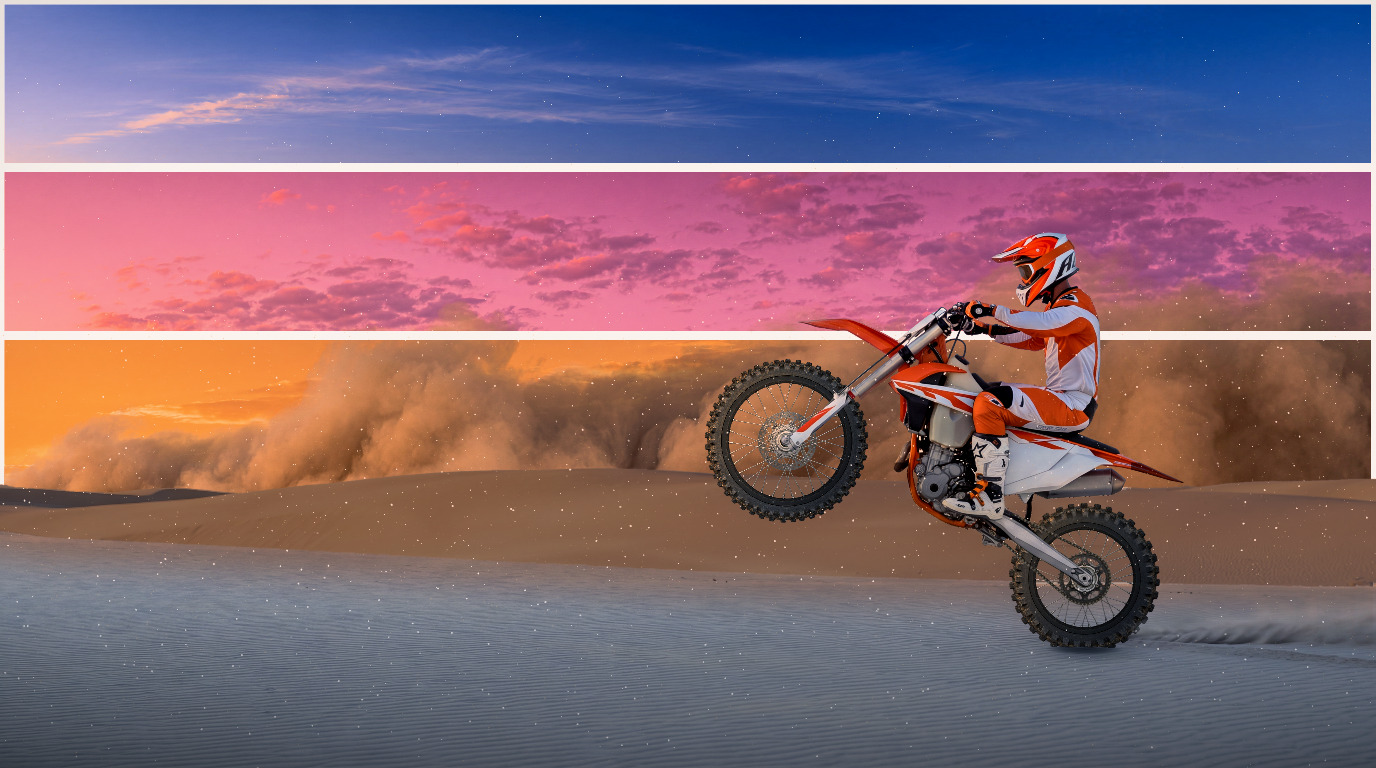
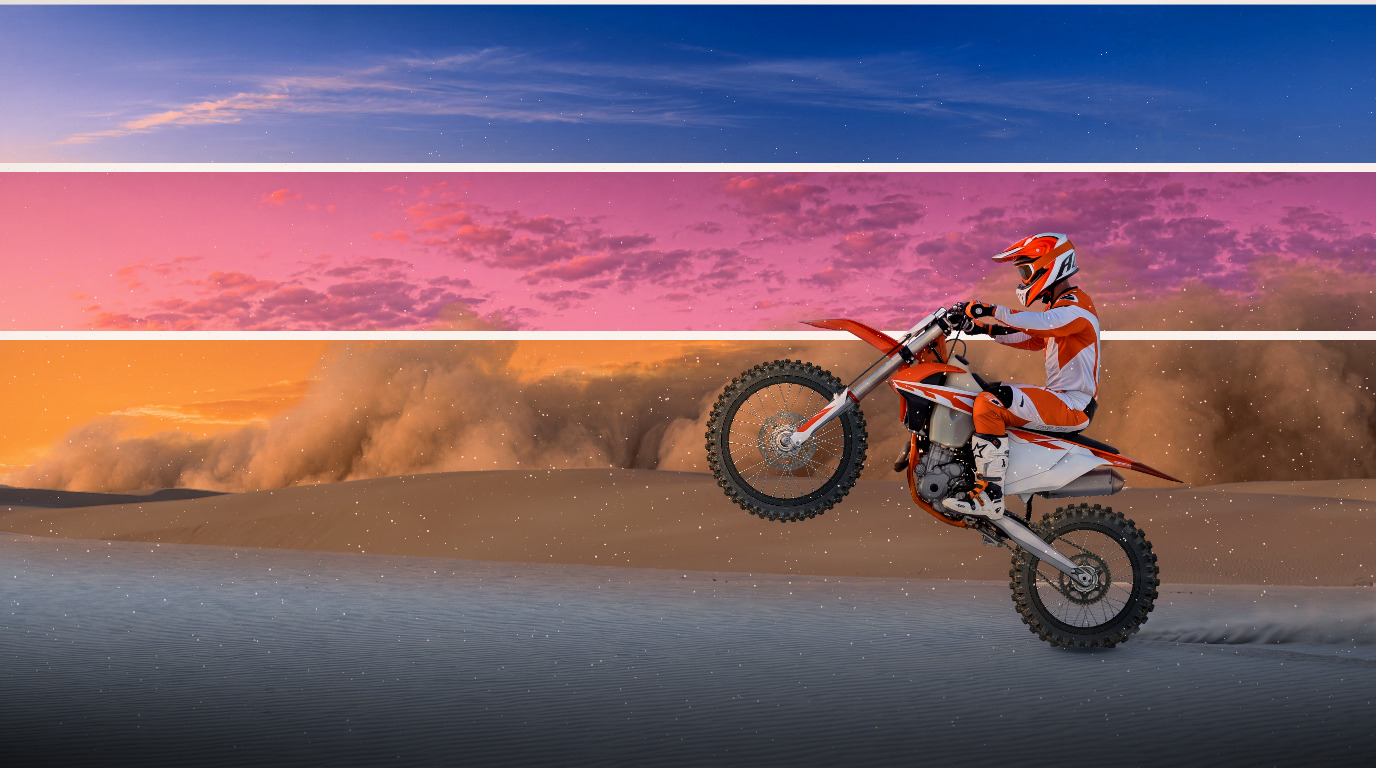
Run the Wheelie sky prints off the screen's sides
Each print was framed on all four sides. A 16:9 screen crops the 18 px
side borders away, but they showed on wider screens, in the poster, and
in the theme preview. The prints now fill the full width, and
Surface.qml draws one white band across each print edge instead of a
frame around each print; the bands keep their rows. The re-rendered
preview also shows the new vignette.

diff --git a/themes/wheelie/scene/Surface.qml b/themes/wheelie/scene/Surface.qml
@@ -37,18 +37,17 @@ Item {
 
     Image { source: "base.png"; smooth: true }
     HorizonStorm { anchors.fill: parent; horizon: root.layout.horizon || 0; running: root.particlesRunning }
-    // The sky prints' white frames, over the storm; the last print's lower edge lies past the horizon.
+    // A white band across each sky print edge, over the storm; the last edge lies past the horizon.
     Item {
       width: parent.width; height: root.layout.horizon || 0
       clip: true
       Repeater {
-        model: root.layout.prints ? root.layout.prints.length - 1 : 0
+        model: root.layout.prints || []
         Rectangle {
-          required property int index
-          y: root.layout.prints[index]
-          width: parent.width; height: root.layout.prints[index + 1] - y
-          color: "transparent"
-          border.color: "white"; border.width: root.layout.printBorder
+          required property int modelData
+          y: modelData - root.layout.printBorder
+          width: parent.width; height: 2 * root.layout.printBorder
+          color: "white"
         }
       }
     }

diff --git a/themes/wheelie/sky.py b/themes/wheelie/sky.py
@@ -112,8 +112,8 @@ def photo(path, width):
 
 
 def prints(photos, rows, border):
-    """Equal full-width strips cut from the middle of each photo, each framed in white like a
-    print, and the prints' edge rows.
+    """Equal full-width strips cut from the middle of each photo, each bordered in white above
+    and below like a print running off the sides, and the prints' edge rows.
 
     Together they fill the sky; the last print's lower border lies just past it, behind the dunes.
     """
@@ -123,7 +123,7 @@ def prints(photos, rows, border):
     for image, top, bottom in zip(photos, edges, edges[1:]):
         inner = bottom - top - 2 * border
         first = (len(image) - inner) // 2
-        sky[top + border:bottom - border, border:-border] = image[first:first + inner, border:-border]
+        sky[top + border:bottom - border] = image[first:first + inner]
     return sky[:rows], edges
 
 

diff --git a/themes/wheelie/README.md b/themes/wheelie/README.md
@@ -36,12 +36,13 @@ another background or theme unloads it.
 
 The user approved the sky on 2026-10-18. Three sky photos, deep blue, rose-magenta,
 and amber from top to bottom, replace the scene's sky as equal full-width strips,
-each framed in white like prints laid edge to edge. Together they fill the sky down
-to the `horizon` row; the amber print's lower edge lies behind the dunes. `sky.py`
+bordered in white above and below like prints laid edge to edge, running off the
+sides. Together they fill the sky down to the `horizon` row; the amber print's lower
+edge lies behind the dunes. `sky.py`
 cuts each strip from the middle of its photo, scaled to the scene width, and the
 bake writes them into `base.png`. The storm draws over the prints, and
-`scene/Surface.qml` redraws the frames over the storm from the `prints` rows and
-`printBorder` width in `layout.json`, so thin dust never ghosts a frame through it.
+`scene/Surface.qml` redraws the borders over the storm from the `prints` rows and
+`printBorder` width in `layout.json`, so thin dust never ghosts a border through it.
 The rider, bike, and dunes stay in front of everything. The border width is set in
 `bake.py`. The photos are native 8:1 and 4:1 panoramas, so every strip is
 downscaled to the scene width rather than cut from a soft 21:9 frame.
